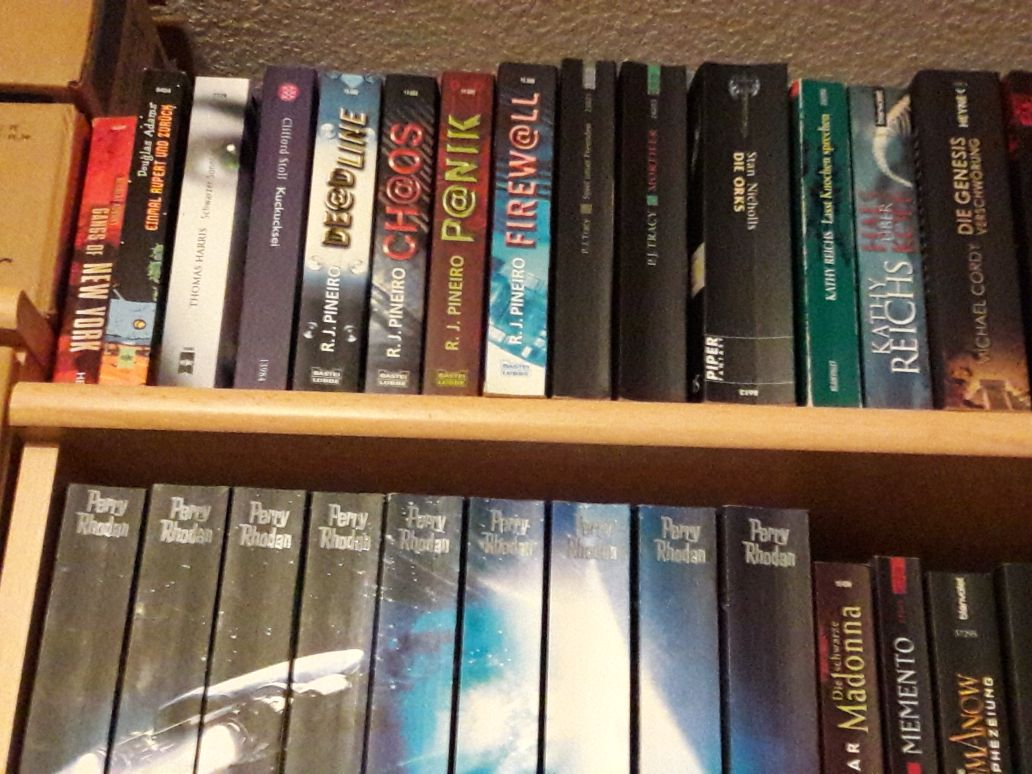
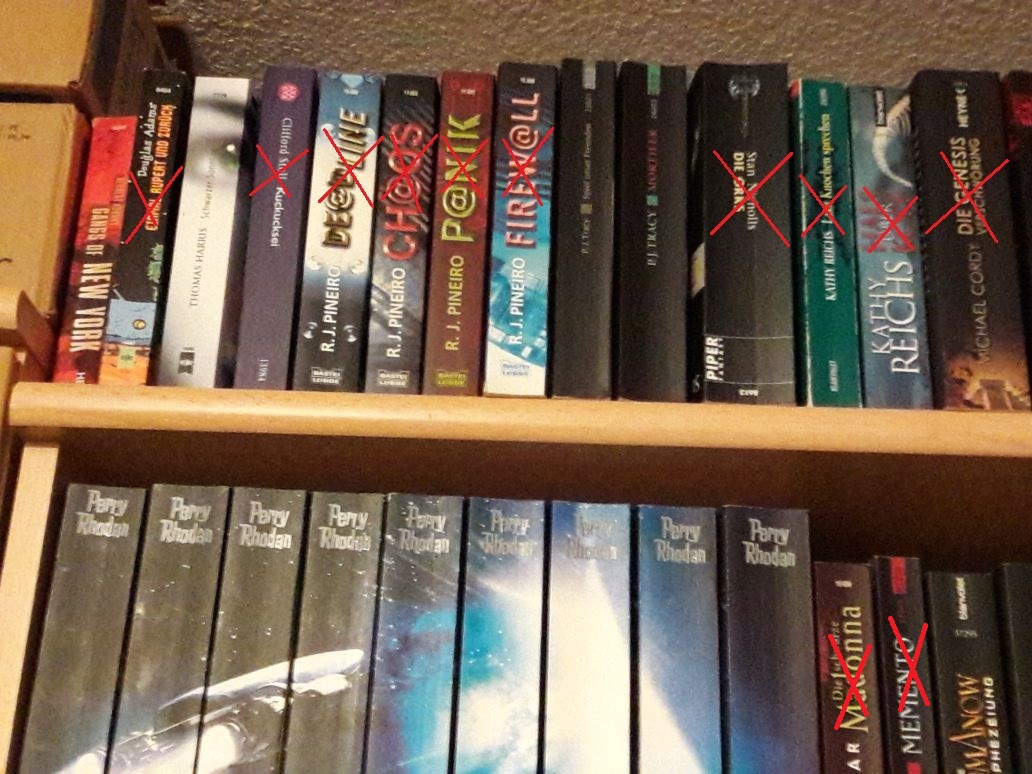
weitere Bücher für den import

diff --git a/src/book_import.ts b/src/book_import.ts
@@ -30,9 +30,7 @@ const book_import = [
     { isbn: '9783570309636', authors: [ 'James Dashner' ],      title: 'Das Spiel ist aus',                 pages: 448 },            
     { isbn: '9783734101878', authors: [ 'Will Jordan' ],        title: 'Operation Black List',              pages: 544 },     
     { isbn: '9783734101731', authors: [ 'Bruce McCabe' ],       title: 'Unfehlbar',                         pages: 512 },            
-    { isbn: '9783940626356', authors: [ 'William Hertling' ],   title: 'Avogadro Corp.',                    pages: 308 },            
-    
-    
+    { isbn: '9783940626356', authors: [ 'William Hertling' ],   title: 'Avogadro Corp.',                    pages: 308 },                
     { isbn: '9783499245671', authors: [ 'Adam Fawer' ],         title: 'Gnosis',                            pages: 720 },
     { isbn: '9783426633342', authors: [ 'Bill Napier' ],        title: 'Der 77. Grad: Mysterythriller',     pages: 416 },
     { isbn: '9783492268882', authors: [ 'Stan Nicholls' ],      title: 'Die Orks',                          pages: 799 },
@@ -49,10 +47,10 @@ const book_import = [
     { isbn: '9783423210867', authors: [ 'Agustín Sánchez Vidal' ],  title: 'Kryptum',                       pages: 752 },
     { isbn: '9783453811461', authors: [ 'Matt Richtel' ],       title: 'Süchtig',                           pages: 400 },
     { isbn: '9783442371266', authors: [ 'Jeffery Deaver' ],     title: 'Der gehetzte Uhrmacher',            pages: 512 },
-    { isbn: '9783426501276', authors: [ 'M. M. Buckner' ],      title: 'Watermind: Es kann jederzeit passieren',    pages: 464 },
+    { isbn: '9783426501276', authors: [ 'M. M. Buckner' ],      title: 'Watermind: Es kann jederzeit passieren',        pages: 464 },
     { isbn: '9783499255489', authors: [ 'P. J. Tracy' ],        title: 'Memento',                           pages: 320 },
     { isbn: '9783404156566', authors: [ 'Peter Millar' ],       title: 'Die schwarze Madonna',              pages: 460 },
-    { isbn: '9783453171831', authors: [ 'Tom Clancy' ],         title: "Tom Clancy's Net Force 3, Ehrenkodex",      pages: 430 },
+    { isbn: '9783453171831', authors: [ 'Tom Clancy' ],         title: "Tom Clancy's Net Force 3, Ehrenkodex",          pages: 430 },
     { isbn: '9783404121687', authors: [ 'Ken Follett' ],        title: 'Nacht über den Wassern',            pages: 536 },
     { isbn: '9783404149117', authors: [ 'Ken Follett' ],        title: 'Das zweite Gedächtnis',             pages: 448 },
     { isbn: '9783442366408', authors: [ 'Jenna C. Black' ],     title: 'Der Puppenmacher',                  pages: 416 },
@@ -76,20 +74,40 @@ const book_import = [
     { isbn: '9783423625807', authors: [ 'Brian Falkner' ],      title: 'Angriff aus dem Netz',              pages: 416 },
     { isbn: '9783442469574', authors: [ 'Michael Crichton' ],   title: 'Welt in Angst',                     pages: 608 },
     { isbn: '9783570301357', authors: [ 'Thomas Feibel' ],      title: 'BACK-UP - ein hacker-thriller',     pages: 192 },
-    { isbn: '9783401057033', authors: [ 'Frank Stieper' ],      title: 'Return to Sender. Ein Hackerthriller',      pages: 248 },
+    { isbn: '9783401057033', authors: [ 'Frank Stieper' ],      title: 'Return to Sender. Ein Hackerthriller',          pages: 248 },
     { isbn: '9783404243815', authors: [ 'Andreas Eschbach' ],   title: 'Quest',                             pages: 560 },
     { isbn: '9783548268286', authors: [ 'Andreu Carranza', 'Esteban Martin' ],  title: 'Die dritte Pforte', pages: 464 },
     { isbn: '9783453861893', authors: [ 'Michael Connelly' ],   title: 'Dunkler als die Nacht',             pages: 463 },
     { isbn: '9783404156139', authors: [ 'Jan Gaspard' ],        title: 'Offenbarung 23 - Die Wahrheit ist nicht genug', pages: 286 },
     { isbn: '9783404242849', authors: [ 'Larry Niven' ],        title: 'Ein Geschenk der Erde',             pages: 349 },
     { isbn: '9783453189256', authors: [ 'Wolfgang Hohlbein' ],  title: 'Spiegelzeit',                       pages: 509 }
-
+    { isbn: '9783453437210', authors: [ 'Koushun Takami' ],     title: 'Battle Royale',                     pages: 624 },
+    { isbn: '9783492285339', authors: [ 'Mary Gentle' ],        title: 'Die letzte Schlacht der Orks',      pages: 656 },
+    { isbn: '9783833310058', authors: [ 'Karl Olsberg' ],       title: 'Enter',                             pages: 432 },
+    { isbn: '9783453437715', authors: [ 'Kathy Reichs' ],       title: 'Knochenjagd',                       pages: 400, series: 'Die Tempe-Brennan-Romane',         episode: '15' },
+    { isbn: '9783426509050', authors: [ 'Daniel H. Wilson' ],   title: 'Robocalypse',                       pages: 464 },
+    { isbn: '9783838715001', authors: [ 'Fabio Genovesi' ],     title: 'Fische füttern',                    pages: 448 },
+    { isbn: '9783453315600', authors: [ 'Ramez Naam' ],         title: 'Nexus',                             pages: 624 },            
+    { isbn: '9783453199088', authors: [ 'Douglas Adams' ],      title: 'Der Elektrische Mönch',             pages: 283 },
+    { isbn: '9783462046625', authors: [ 'Tom Hillenbrand' ],    title: 'Drohnenland',                       pages: 432 },
+    { isbn: '9783453534704', authors: [ 'Matthew Mather' ],     title: 'Cyberstorm',                        pages: 448 },
+    { isbn: '9783442473496', authors: [ 'Joy Fielding' ],       title: 'Im Koma',                           pages: 415 },
+    { isbn: '9783426500491', authors: [ 'Douglas Preston' ],    title: 'Dark Zero',                         pages: 480 },
+    { isbn: '9783404171699', authors: [ 'M. Sean Coleman' ],    title: 'Netwars - Der Code',                pages: 480 },
+    { isbn: '9783492264396', authors: [ 'Jenk Saborowski' ],    title: 'Operation Blackmail',               pages: 382 },
+//    { isbn: '978-3453185821', authors: [ 'Herbert Asbury' ],       title: 'Gangs of New York',            pages: ??? },
+    { isbn: '978-3453082304', authors: [ 'Douglas Adams' ],     title: 'Einmal Rupert und zurück',          pages: 272 },
+    { isbn: '978-3596139842', authors: [ 'Clifford Stoll' ],    title: 'Kuckucksei',                        pages: 457 },
+    { isbn: '978-3404150885', authors: [ 'Rogelio J. Pineiro' ],    title: 'De@dline',                      pages: 445 },
+    { isbn: '978-3404259205', authors: [ 'Rogelio J. Pineiro' ],    title: 'CH@OS',                         pages: 445 },
+    { isbn: '9783404148806', authors: [ 'Rogelio J. Pineiro' ],     title: 'P@nik',                         pages: 383 },
+    { isbn: '978-3404152681', authors: [ 'Rogelio J. Pineiro' ],    title: 'Firew@ll',                      pages: 650 }
+    
     // Vorlage
 //    { isbn: '', authors: [ '' ],       title: '',                        pages:  },
     
     
     // schon mal erfasst
-//    { isbn: '9783833310058', authors: [ 'Karl Olsberg' ],       title: 'Enter',                             pages: 432 },
 
 //    { isbn: '9783746623672', authors: [ 'Karl Olsberg' ],       title: 'Das System',                        pages: 403 },
     
@@ -100,11 +118,9 @@ const book_import = [
     // unklar
     
 
-//    { isbn: '9783499291333', authors: [ 'Daniel Suarez' ],      title: 'Bios',                              pages: 544 },
 //    { isbn: '9783644442917', authors: [ 'Daniel Suarez' ],      title: 'Darknet',                           pages: 480 },
 //    { isbn: '9783644525313', authors: [ 'Daniel Suarez' ],      title: 'Control',                           pages: 496 },
 //    { isbn: '9783644442818', authors: [ 'Daniel Suarez' ],      title: 'Daemon',                            pages: 640 },
-//    { isbn: '9783462307931', authors: [ 'Tom Hillenbrand' ],    title: 'Drohnenland',                       pages: 432 },
 //    { isbn: '9783462308204', authors: [ 'Dave Eggers' ],        title: 'Der Circle',                        pages: 560 },
 //    { isbn: '9783641074319', authors: [ 'Marc Elsberg' ],       title: 'BLACKOUT - Morgen ist es zu spät',  pages: 800 },
 //    { isbn: '9783644557116', authors: [ 'Patrick Lee' ],        title: 'Das Signal',                        pages: 464 },
@@ -115,7 +131,6 @@ const book_import = [
 //    { isbn: '9783746626895', authors: [ 'Karl Olsberg' ],       title: 'Glanz',                             pages: 400 },            
 //    { isbn: '9783499239410', authors: [ 'Adam Fawer' ],         title: 'Null',                              pages: 585 },            
 //    { isbn: '9783641140021', authors: [ 'James Dashner' ],      title: 'Gegen die Spielregeln',             pages: 416 },            
-//    { isbn: '9783453315600', authors: [ 'Ramez Naam' ],         title: 'Nexus',                             pages: 624 },            
     
     
     
